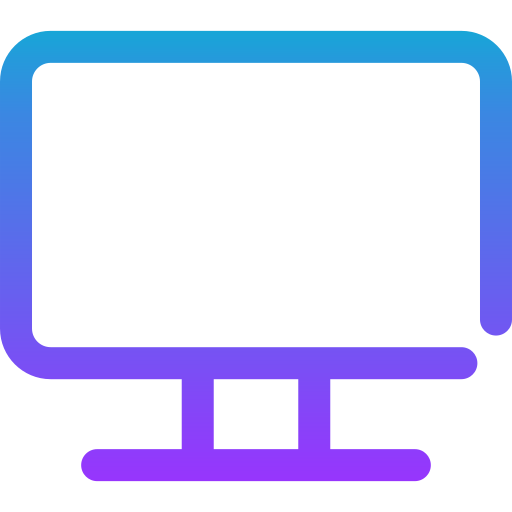
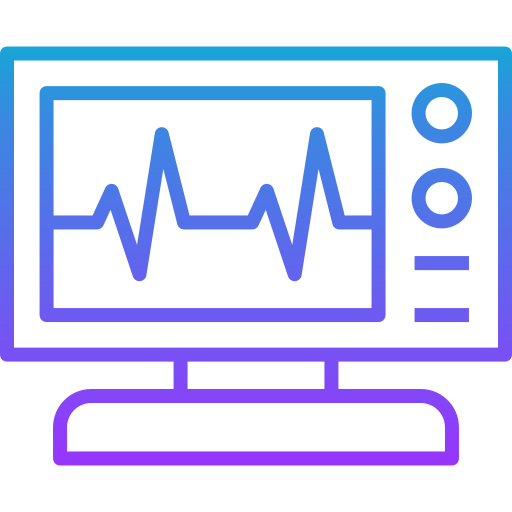
메인화면 디자인 수정, 도움말 페이지 리다이렉트 추가

diff --git a/lib/pages/home/mainNoBluetooth.dart b/lib/pages/home/mainNoBluetooth.dart
@@ -1,6 +1,7 @@
 import 'dart:async';
 import 'dart:math';
 import 'package:flutter/material.dart';
+import 'package:my_flutter_app/pages/home/main.dart';
 import '../allimPage.dart';
 import '../diagnosisPage.dart';
 import '../monitoringPage.dart';
@@ -94,6 +95,7 @@ class MainPageState extends State<MainPage> {
           child: Column(
             children: <Widget>[
               const SizedBox(height: 20),
+              
               ElevatedButton(
                 style: ElevatedButton.styleFrom(
                   foregroundColor: Colors.black,
@@ -102,12 +104,36 @@ class MainPageState extends State<MainPage> {
                     borderRadius: BorderRadius.circular(10.0),
                   ),
                 ),
+                child: Column(
+                  mainAxisAlignment: MainAxisAlignment.center,
+                  children: [
+                    Image.asset(
+                      'assets/bluetooth.png',
+                      width: 48,
+                      height: 48,
+                    ),
+                    Text(
+                      bluetoothButtonText,
+                      style: const TextStyle(fontSize: 18.0),
+                    ),
+                  ],
+                ),
                 onPressed: () {
                   print("Bluetooth 버튼 클릭이 실행되었습니다");
                 },
-                child: Text(bluetoothButtonText),
               ),
-              Text(bluetoothText),
+              const SizedBox(height: 20),
+              Row(
+                mainAxisAlignment: MainAxisAlignment.center,
+                children: <Widget>[
+                  Image.asset(
+                      isConnected ? 'assets/확인.png' : 'assets/경고.png',
+                      width: 20,
+                      height: 20,
+                    ),
+                  Text(" $bluetoothText"),
+                ]
+              ),
               const SizedBox(height: 20),
               // 버튼 행 설정
               setButtonRow(context, firstButton: '차량진단', secondButton: '모니터링'),

diff --git a/lib/pages/home/main.dart b/lib/pages/home/main.dart
@@ -233,12 +233,36 @@ class MainPageState extends State<MainPage> {
                     borderRadius: BorderRadius.circular(10.0),
                   ),
                 ),
+                child: Column(
+                  mainAxisAlignment: MainAxisAlignment.center,
+                  children: [
+                    Image.asset(
+                      'assets/bluetooth.png',
+                      width: 48,
+                      height: 48,
+                    ),
+                    Text(
+                      bluetoothButtonText,
+                      style: const TextStyle(fontSize: 18.0),
+                    ),
+                  ],
+                ),
                 onPressed: () {
-                  setBluetoothDevice(obd2);
+                  print("Bluetooth 버튼 클릭이 실행되었습니다");
                 },
-                child: Text(bluetoothButtonText),
               ),
-              Text(bluetoothText),
+              const SizedBox(height: 20),
+              Row(
+                mainAxisAlignment: MainAxisAlignment.center,
+                children: <Widget>[
+                  Image.asset(
+                      isConnected ? 'assets/확인.png' : 'assets/경고.png',
+                      width: 20,
+                      height: 20,
+                    ),
+                  Text(" $bluetoothText"),
+                ]
+              ),
               const SizedBox(height: 20),
               setButtonRow(context, firstButton: '차량진단', secondButton: '모니터링'),
               const SizedBox(height: 20),

diff --git a/lib/pages/settingPage.dart b/lib/pages/settingPage.dart
@@ -31,7 +31,11 @@ class SettingPage extends StatefulWidget {
 
 class SettingPageState extends State<SettingPage> {
   Widget build(BuildContext context) {
+    
     return Scaffold(
+      appBar: AppBar(
+        title: const Text('세팅'),
+      ),
       body: SettingsList(
         sections: [
           SettingsSection(
@@ -60,7 +64,9 @@ class SettingPageState extends State<SettingPage> {
               SettingsTile.navigation(
                 leading: Icon(Icons.help),
                 title: Text('도움말'),
-                onPressed: ((context) {}),
+                onPressed: ((context) {
+                  _launchURL('https://www.notion.so/bincher/App-622593d1186540c3a710d222e3180221');
+                }),
               ),
               SettingsTile.navigation(
                 leading: Icon(Icons.library_books),

diff --git a/lib/pages/allimPage.dart b/lib/pages/allimPage.dart
@@ -37,6 +37,9 @@ class AllimPageState extends State<AllimPage> {
   @override
   Widget build(BuildContext context) {
     return Scaffold(
+      appBar: AppBar(
+        title: const Text('알람'),
+      ),
       body: SettingsList(
         sections: [
           SettingsSection(

diff --git a/README.md b/README.md
@@ -18,6 +18,26 @@ OBD2(ELM327)을 이용한 차량 진단 서비스 어플리케이션
 
     - 오픈소스 라이선스에 넣을 것
 
+- 아이콘 이미지
+    
+    - <a href="https://www.flaticon.com/kr/free-icons/" title="블루투스 아이콘">블루투스 아이콘 제작자: lakonicon - Flaticon</a>
+
+    - <a href="https://www.flaticon.com/kr/free-icons/-" title="자동차 진단 아이콘">자동차 진단 아이콘 제작자: kliwir art - Flaticon</a>
+
+    - <a href="https://www.flaticon.com/kr/free-icons/-" title="소프트웨어 개발 아이콘">소프트웨어 개발 아이콘 제작자: kliwir art - Flaticon</a>
+
+    - <a href="https://www.flaticon.com/kr/free-icons/" title="설정 아이콘">설정 아이콘 제작자: kliwir art - Flaticon</a>
+
+    - <a href="https://www.flaticon.com/kr/free-icons/" title="알림 아이콘">알림 아이콘 제작자: kliwir art - Flaticon</a>
+
+    - <a href="https://www.flaticon.com/kr/free-icons/ecg-" title="ecg 모니터 아이콘">Ecg 모니터 아이콘 제작자: kliwir art - Flaticon</a>
+
+    - <a href="https://www.flaticon.com/kr/free-icons/" title="경고 아이콘">경고 아이콘 제작자: Creatype - Flaticon</a>
+
+    <a href="https://www.flaticon.com/kr/free-icons/foursquare-" title="foursquare 체크인 아이콘">Foursquare 체크인 아이콘 제작자: hqrloveq - Flaticon</a>
+
+    - 오픈소스 라이선스에 넣을 것
+
 - 블루투스 없는 버전 : mainNoBluetooth.dart 실행
 
     - 다만, 일부 기능은 사용이 불가하며 일부 기능은 사소한 버그가 존재할 수 있음(블루투스 기능 등)
